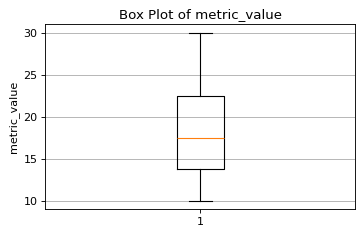
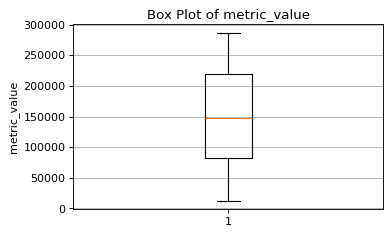
feat: implement charts overview endpoint and enhance ChartsTab with dataset overview functionality

Changed region(s): [[0.0, 0.0298, 1.0, 0.9532]]

diff --git a/modules/frontend/src/tabs/ChartsTab.jsx b/modules/frontend/src/tabs/ChartsTab.jsx
@@ -1,35 +1,53 @@
-import React, { useState } from "react";
+import React, { useEffect, useState } from "react";
 import {
   getHistogram,
   getBarCategory,
   getBoxplot,
   getScatter,
   getGroupedComparison,
+  getChartOverview,
   resolveApiAssetUrl,
 } from "../api/client";
 import { chartCatalog } from "../catalog/chartCatalog";
 import { resolveBaseUrl } from "../config/env";
 
-const SAMPLE_DATA = [
-  { entity_id: "A", metric_value: 10, secondary_metric: 8, category: "X" },
-  { entity_id: "B", metric_value: 20, secondary_metric: 18, category: "Y" },
-  { entity_id: "C", metric_value: 15, secondary_metric: 12, category: "X" },
-  { entity_id: "D", metric_value: 30, secondary_metric: 25, category: "Z" },
-];
-
-export default function ChartsTab() {
-  const data = SAMPLE_DATA;
-  const values = data.map((d) => d.metric_value);
-  const min = Math.min(...values);
-  const max = Math.max(...values);
-  const mean = (values.reduce((a, b) => a + b, 0) / values.length).toFixed(2);
-
+export default function ChartsTab({ activeDatasetId = null }) {
   const isDev = import.meta.env.DEV;
   const [target, setTarget] = useState(isDev ? "local" : "cloud");
   const [activeChart, setActiveChart] = useState("");
   const [chartImages, setChartImages] = useState({});
   const [loading, setLoading] = useState(false);
   const [error, setError] = useState("");
+  const [overview, setOverview] = useState(null);
+  const [overviewLoading, setOverviewLoading] = useState(false);
+  const [overviewError, setOverviewError] = useState("");
+
+  useEffect(() => {
+    if (!activeDatasetId) {
+      setOverview(null);
+      setOverviewError("");
+      return;
+    }
+
+    let cancelled = false;
+    setOverviewLoading(true);
+    setOverviewError("");
+
+    const baseUrl = resolveBaseUrl(target);
+    getChartOverview({ baseUrl }).then((result) => {
+      if (cancelled) return;
+      setOverviewLoading(false);
+      if (result.ok) {
+        setOverview(result.data);
+      } else {
+        setOverviewError(result.error || "Failed to load dataset overview.");
+      }
+    });
+
+    return () => {
+      cancelled = true;
+    };
+  }, [activeDatasetId, target]);
 
   const loadChartById = async (chartId) => {
     const baseUrl = resolveBaseUrl(target);
@@ -114,16 +132,28 @@ const getObservationText = (chartId) => {
       <h2>Charts</h2>
 
       <h3>Dataset Overview</h3>
-      <p>Source: Sample Dataset</p>
-      <p>Rows: {data.length}</p>
-      <p>Variables: {Object.keys(data[0]).length}</p>
-      <p>Fields: {Object.keys(data[0]).join(", ")}</p>
+      {!activeDatasetId ? (
+        <p style={{ opacity: 0.7 }}>
+          No dataset loaded — upload and run a dataset to view charts.
+        </p>
+      ) : overviewLoading ? (
+        <p>Loading dataset overview...</p>
+      ) : overviewError ? (
+        <p style={{ color: "#c00" }}>{overviewError}</p>
+      ) : overview ? (
+        <>
+          <p>Source: {overview.source}</p>
+          <p>Rows: {overview.rows}</p>
+          {overview.variables != null && <p>Variables: {overview.variables}</p>}
+          {overview.fields && <p>Fields: {overview.fields.join(", ")}</p>}
 
-      <h3>Summary Statistics</h3>
-      <p>Min: {min}</p>
-      <p>Max: {max}</p>
-      <p>Mean: {mean}</p>
-      <p>Count: {values.length}</p>
+          <h3>Summary Statistics</h3>
+          {overview.min != null && <p>Min: {overview.min}</p>}
+          {overview.max != null && <p>Max: {overview.max}</p>}
+          {overview.mean != null && <p>Mean: {overview.mean}</p>}
+          {overview.count != null && <p>Count: {overview.count}</p>}
+        </>
+      ) : null}
 
       <p style={{ marginBottom: "1rem", opacity: 0.85 }}>
         Each chart includes guidance on what it shows, when to use it, and whether it is recommended for the current dataset.

diff --git a/modules/frontend/src/api/client.js b/modules/frontend/src/api/client.js
@@ -86,6 +86,9 @@ export async function getScatter({ baseUrl } = {}) {
 export async function getGroupedComparison({ baseUrl } = {}) {
   return request("/charts/grouped-comparison", { method: "GET" }, baseUrl);
 }
+export async function getChartOverview({ baseUrl } = {}) {
+  return request(ENDPOINTS.CHARTS_OVERVIEW, { method: "GET" }, baseUrl);
+}
 export async function getHealth() {
   return request(ENDPOINTS.HEALTH, {
     method: "GET",

diff --git a/modules/frontend/src/App.jsx b/modules/frontend/src/App.jsx
@@ -102,7 +102,7 @@ export default function App() {
       case "metrics":
         return <MetricsTab pipelineResult={pipelineResult} />;
       case "charts":
-        return <ChartsTab />;
+        return <ChartsTab activeDatasetId={activeDatasetIdentity} />;
       case "ml":
         return <MlTab onAction={refreshSessionState} hasDataset={hasDataset} />;
       case "prediction":

diff --git a/modules/frontend/src/tabs/ChartsTab.test.jsx b/modules/frontend/src/tabs/ChartsTab.test.jsx
@@ -17,6 +17,7 @@ vi.mock("../api/client", () => ({
   getBoxplot: vi.fn(),
   getScatter: vi.fn(),
   getGroupedComparison: vi.fn(),
+  getChartOverview: vi.fn(),
   resolveApiAssetUrl: vi.fn((imagePath) => imagePath),
 }));
 

diff --git a/modules/api/app.py b/modules/api/app.py
@@ -10,9 +10,12 @@ from fastapi import Request
 from modules.config.logging_config import setup_logging
 from modules.config.runtime_config import load_runtime_config
 from modules.api.session_state import reset_session_state
+from modules.api.session_state import get_session_state
 from modules.api.errors import register_error_handlers
 from modules.persistence.persistence_manager import PersistenceManager
 from fastapi.staticfiles import StaticFiles
+from modules.config.storage_config import StorageConfig
+from modules.persistence.local_storage import LocalStorage
 from modules.visualization.plots import (
     create_histogram,
     create_bar_category_chart,
@@ -21,13 +24,54 @@ from modules.visualization.plots import (
     create_grouped_comparison_chart,
 )
 
-def get_chart_dataframe():
-    return pd.DataFrame([
-        {"entity_id": "A", "metric_value": 10, "secondary_metric": 8, "category": "X"},
-        {"entity_id": "B", "metric_value": 20, "secondary_metric": 18, "category": "Y"},
-        {"entity_id": "C", "metric_value": 15, "secondary_metric": 12, "category": "X"},
-        {"entity_id": "D", "metric_value": 30, "secondary_metric": 25, "category": "Z"},
-    ])
+
+def _records_to_chart_df(records: list) -> pd.DataFrame:
+    """Flatten canonical records into a chart-ready DataFrame.
+
+    Maps the first numeric feature to ``metric_value``, the second to
+    ``secondary_metric``, and the first string feature to ``category``.
+    Falls back to ``entity_id`` when a column is not available.
+    """
+    rows = []
+    for r in records:
+        row = {"entity_id": r.get("entity_id", "")}
+        row.update(r.get("features", {}))
+        rows.append(row)
+
+    df = pd.DataFrame(rows)
+
+    num_cols = [
+        c for c in df.columns
+        if c != "entity_id" and pd.api.types.is_numeric_dtype(df[c])
+    ]
+    str_cols = [
+        c for c in df.columns
+        if c != "entity_id" and not pd.api.types.is_numeric_dtype(df[c])
+    ]
+
+    df["metric_value"] = df[num_cols[0]] if len(num_cols) >= 1 else 0.0
+    df["secondary_metric"] = df[num_cols[1]] if len(num_cols) >= 2 else df["metric_value"]
+    df["category"] = df[str_cols[0]] if str_cols else df["entity_id"]
+
+    return df
+
+
+def get_chart_dataframe() -> pd.DataFrame:
+    """Load the active persisted records and return a chart-ready DataFrame.
+
+    Raises HTTPException 422 when no records have been persisted yet.
+    """
+    config = StorageConfig()
+    storage = LocalStorage(storage_path=config.storage_path)
+    records = storage.load_records()
+
+    if not records:
+        raise HTTPException(
+            status_code=422,
+            detail="No dataset loaded. Upload and run a dataset to view charts.",
+        )
+
+    return _records_to_chart_df(records)
 
 
 setup_logging(service_name="opsight.api")
@@ -189,5 +233,53 @@ def health():
     return {
         "status": "ok",
         "version": runtime_config.app_version,
+    }
+
+
+@app.get("/charts/overview")
+def charts_overview():
+    config = StorageConfig()
+    storage = LocalStorage(storage_path=config.storage_path)
+    records = storage.load_records()
+
+    if not records:
+        raise HTTPException(
+            status_code=422,
+            detail="No dataset loaded. Upload and run a dataset to view charts.",
+        )
+
+    session = get_session_state()
+    active_dataset = session.get("active_dataset") or "unknown"
+
+    rows = []
+    for r in records:
+        row = {"entity_id": r.get("entity_id", "")}
+        row.update(r.get("features", {}))
+        rows.append(row)
+
+    df = pd.DataFrame(rows)
+
+    num_cols = [
+        c for c in df.columns
+        if c != "entity_id" and pd.api.types.is_numeric_dtype(df[c])
+    ]
+
+    stats: dict = {}
+    if num_cols:
+        series = df[num_cols[0]].dropna()
+        if len(series) > 0:
+            stats = {
+                "min": round(float(series.min()), 4),
+                "max": round(float(series.max()), 4),
+                "mean": round(float(series.mean()), 4),
+                "count": int(len(series)),
+            }
+
+    return {
+        "source": active_dataset,
+        "rows": len(df),
+        "variables": len(df.columns),
+        "fields": list(df.columns),
+        **stats,
     }
 

diff --git a/tests/test_phase12_charts_api.py b/tests/test_phase12_charts_api.py
@@ -4,6 +4,8 @@ import time
 from pathlib import Path
 
 import pandas as pd
+import json
+import pytest
 from fastapi.testclient import TestClient
 
 
@@ -25,6 +27,26 @@ import modules.api.app as api_app_module
 
 
 client = TestClient(api_app_module.app)
+
+_TEST_RECORDS = [
+    {"entity_id": "A", "features": {"metric_value": 10, "secondary_metric": 8, "category": "X"}, "metadata": {}},
+    {"entity_id": "B", "features": {"metric_value": 20, "secondary_metric": 18, "category": "Y"}, "metadata": {}},
+    {"entity_id": "C", "features": {"metric_value": 15, "secondary_metric": 12, "category": "X"}, "metadata": {}},
+    {"entity_id": "D", "features": {"metric_value": 30, "secondary_metric": 25, "category": "Z"}, "metadata": {}},
+]
+
+_STORAGE_PATH = Path("data/test-records.json")
+
+
+@pytest.fixture(autouse=True)
+def seed_test_records():
+    """Write sample records to test storage before each chart test and clean up after."""
+    _STORAGE_PATH.parent.mkdir(parents=True, exist_ok=True)
+    _STORAGE_PATH.write_text(json.dumps(_TEST_RECORDS))
+    yield
+    if _STORAGE_PATH.exists():
+        _STORAGE_PATH.unlink()
+
 
 CHART_ENDPOINTS = {
     "/charts/histogram": {
